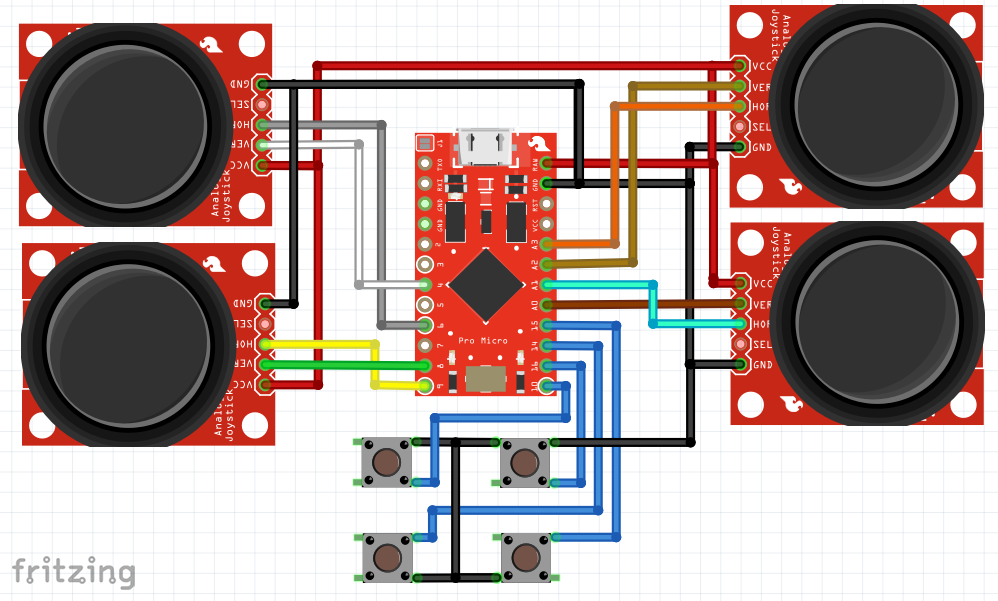
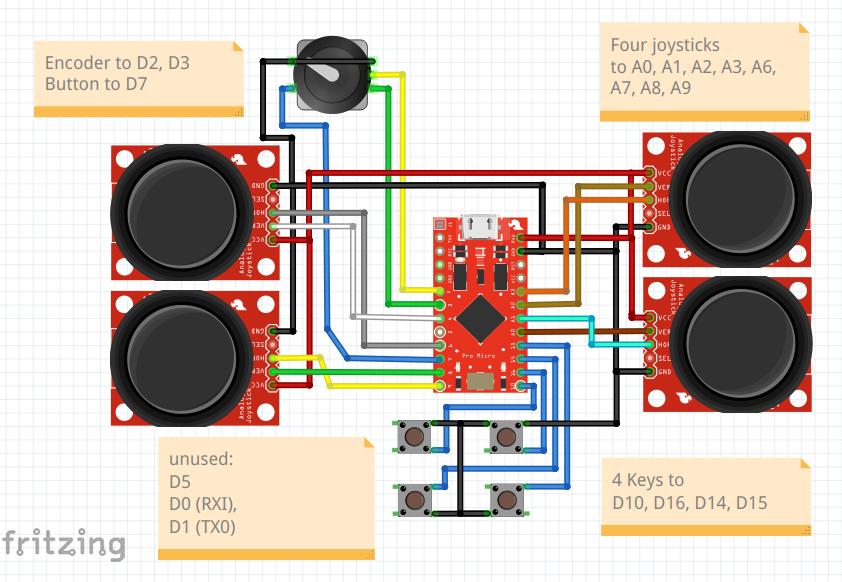
Robust zeroing and dead-zone suggestion (#42)
* New debug=11 to recalibrate (=zero) the joysticks.
* Integrated a dead zone suggestion and warnings for non-idle axis
* Updates to README and added FAQ for #19

diff --git a/spacemouse-keys/config_sample.h b/spacemouse-keys/config_sample.h
@@ -1,12 +1,12 @@
 // The user specific settings, like pin mappings or special configuration variables and sensitivities are stored in config.h.
-// Please adjust your settings and save it as config.h
+// Please adjust your settings and save it as --> config.h <-- !
 
 // Calibration instructions
 // Follow this file from top to bottom to calibrate your space mouse
 
 // Default Assembly when looking from above on top of the space mouse
 //
-//   back
+//   back    resulting axis
 //    C           Y+
 //    |           .
 // B--+--D   X-...Z+...X+
@@ -35,8 +35,9 @@
 
 // Debugging (You can send the number over the serial interface, whenever you whish)
 // -1: Debugging off. Set to this once everything is working.
-// 0: Debugging level doesn't change
+// 0: Nothing...
 // 1: Output raw joystick values. 0-1023 raw ADC 10-bit values
+// 11: Calibrate / Zero the spacemouse and get a dead-zone suggestion (This is also done on every startup in the setup())
 // 2: Output centered joystick values. Values should be approx -500 to +500, jitter around 0 at idle.
 // 20: semi-automatic min-max calibration
 // 3: Output centered joystick values. Filtered for deadzone. Approx -350 to +350, locked to zero at idle, modified with a function.
@@ -46,22 +47,24 @@
 // 7: Report the frequency of the loop() -> how often is the loop() called in one second?
 // 8: Report the bits and bytes send as button codes
 // 9: Report details about the encoder wheel, if ROTARY_AXIS > 0
-#define STARTDEBUG 0
+
+#define STARTDEBUG 0  // Can also be set over the serial interface, while the programm is running!
 
 // Second calibration: Tune Deadzone
 // Deadzone to filter out unintended movements. Increase if the mouse has small movements when it should be idle or the mouse is too senstive to subtle movements.
-// Set debug = 2. Don't touch the mouse but observe the values. They should be nearly to zero. Every value around zero which is noise or should be neglected afterwards is in the following deadzone.
-#define DEADZONE 3  // Recommended to have this as small as possible for V2 to allow smaller knob range of motion.
+// Semi-automatic: Set debug = 11. Don't touch the mouse and observe the automatic output.
+// Manual: Set debug = 2. Don't touch the mouse but observe the values. They should be nearly to zero. Every value around zero which is noise or should be neglected afterwards is in the following deadzone.
+#define DEADZONE 3  // Recommended to have this as small as possible to allow full range of motion.
 
-// Third calibration: getting min and max values
+// Third calibration: Getting MIN and MAX values
 // Can be done manual (debug = 2) or semi-automatic (debug = 20)
 // Semi-automatic (debug=20)
 // 1. Set debug = 20
 // 2. Compile the sketch, upload it and wait for confirmation in the serial console.
 // 3. Move the spacemouse around for 15s to get a min and max value.
 // 4. Verify, that the minimums are around -400 to -520 and the maxVals around +400 to +520.
-// (repeat or check again, if you have small values!)
-// 5. Copy the output from the console into your config.h (below the manual instructions)
+// (repeat or check again, if you have too small values!)
+// 5. Copy the output from the console into your config.h 
 
 // Manual min/max calibration (debug = 2)
 // Recommended calibration procedure for min/max adc levels
@@ -94,22 +97,21 @@
 
 // Fourth calibration: Sensitivity
 // Independent sensitivity multiplier for each axis movement. Use degbug mode 4 or use for example your cad program to verify changes.
-// eg use lower value like 0.5 to make axis more sensitive, use higher value like 5 to make it less sensitive
-// The Values you can change (those Values worked for me, you can or should change them to your preferences):
+// E.g. use lower value like 0.5 to make axis more sensitive, use higher value like 5 to make it less sensitive
 
 // Recommended calibration procedure for sensitivity
-//  1. Make sure modFunc is on level 0!! Change debug to level 4 and upload sketch. Then open Serial Monitor. You will see Values TX, TY, TZ, RX, RY, RZ
+//  1. Make sure modFunc is on level 0, see below. Upload the sketch. Then open serial monitor, type 4 and hit enter. You will see Values TX, TY, TZ, RX, RY, RZ
 //  2. Start moving your spacemouse. You will notice values changing.
-//  3. Starting with TX try increasing this value as much as possible by moving your spacemouse around. If you get around 350 thats great. If not change pos_transX_sensitivy and reupload sketch. Repeat until it is around 350 for maximum motion.
+//  3. Starting with TX try increasing this value as much as possible by moving your spacemouse around. If you get around 350 thats great. If not change TRANSX_SENSITIVITY and reupload sketch. Repeat until it is around 350 for maximum motion.
 //  4. Repeat steps 3 for TY,TZ,RX,RY,RZ
 //  5. Verification: Move the Jockstick in funny ways. All you should get for eather TX,TX,TZ,RX,RY,RZ should be aprox. between -350 to 350.
 //  6. You have finished sensitivity calibration. You can now test your spacemouse with your favorite program (e.g. Cad software, Slicer)
-//  7. Aftermath: You notice the movements are hard to control. Try using Modification Functions (have a look at the beginning of the sketch) [I like level 3 the most. Experiment to find your favorite function]
+//  7. Aftermath: You notice the movements are hard to control. Try using Modification Functions [I like level 3 the most. Experiment to find your favorite function]
 
 #define TRANSX_SENSITIVITY 2
 #define TRANSY_SENSITIVITY 2
 #define POS_TRANSZ_SENSITIVITY 0.5
-#define NEG_TRANSZ_SENSITIVITY 5  //I want low sensitiviy for down, therefore a high value.
+#define NEG_TRANSZ_SENSITIVITY 5  // I want low sensitiviy for down, therefore a high value.
 #define GATE_NEG_TRANSZ 15        // gate value, which negative z movements will be ignored (like an additional deadzone for -z).
 #define GATE_ROTX 15              // Value under which rotX values will be forced to zero
 #define GATE_ROTY 15              // Value under which roty values will be forced to zero
@@ -119,7 +121,7 @@
 #define ROTY_SENSITIVITY 1.5
 #define ROTZ_SENSITIVITY 2
 
-// Modifier Function
+// Fifth calibration: Modifier Function
 // Modify resulting behaviour of spacemouse outputs the suppres small movements around zero and enforce big movements even more.
 // (This function is applied on the resulting velocities and not on the direct input from the joysticks)
 // This should be at level 0 when starting the calibration!
@@ -132,12 +134,13 @@
 #define MODFUNC 0
 
 // ------------------------------------------------------------------------------------
-// Direction
+// Sixth Calibration: Direction
 // Modify the direction of translation/rotation depending on preference.
 // This should be done, when you are done with the pin assignment.
 // The default 0 is here for x, y and z orientation as to the picture in the readem
 // The suggestion in the comments is to accomodate the 3dConnexion Trainer "3Dc"
-// Switch between true/false as desired.
+// Switch between 0 or 1 as desired
+
 #define INVX 0   // pan left/right  // 3Dc: 0
 #define INVY 0   // pan up/down     // 3Dc: 1
 #define INVZ 0   // zoom in/out     // 3Dc: 1
@@ -146,16 +149,14 @@
 #define INVRZ 0  // Rotate around Z axis (twist left/right) // 3Dc: 1
 
 //Switch Zooming with Up/Down Movement
-//DISCLAIMER: This will make your spacemouse work like in the original code from TeachingTech, but if you try the 3DConnexion tutorial in the Spacemouse Home Software you will notice it won't work.
-#define SWITCHYZ 0  //change to true for switching movement
+#define SWITCHYZ 0  // change to 1 to switch Y and Z axis
 
 // ------------------------------------------------------------------------------------
 // Keys Support
 // See below for examples
-// How many keys are there in total?
+// How many keys are there in total? (0=no keys, feature disabled)
 #define NUMKEYS 0
 // Define the pins for the keys on the arduino
-// KEYLIST must be empty "{ }" if NUMKEYS = 0, i.e. no key support
 // The first pins from KEYLIST may be reported via HID
 #define KEYLIST \
   { 15, 14, 16, 10 }
@@ -182,12 +183,13 @@
 #define SM_ROT      26 // Key "Rotate" 
 
 // BUTTONLIST must have the as many elemets as NUMHIDKEYS
-// That means: BUTTONLIST must be empty "{ }" if NUMHIDKEYS = 0
 // The keys from KEYLIST are assigned to buttons here:
 #define BUTTONLIST { SM_FIT, SM_T, SM_R, SM_RCW }
+
 // ------------------------------------------------------------------------------------
 
-// Kill-Key Feature: Are there buttons to set the translation or rotation to zero?
+// Kill-Key Feature
+// Are there buttons to set the translation or rotation to zero?
 // How many kill keys are there? (disabled: 0; enabled: 2)
 #define NUMKILLKEYS 0
 // usually you take the last two buttons from KEYLIST as kill-keys
@@ -205,7 +207,6 @@
  *  NUMKILLKEYS 0
  *  KILLROT and KILLTRANS don't matter... KILLROT 0 and KILLTRANS 0
  */
-
 
 /*  Example for three usual buttons and no kill-keys
  *  There are three keys in total:  NUMKEYS 3

diff --git a/spacemouse-keys/calibration.cpp b/spacemouse-keys/calibration.cpp
@@ -179,7 +179,131 @@ void updateFrequencyReport() {
     Serial.print("Frequency: ");
     Serial.print(iterationsPerSecond);
     Serial.println(" Hz");
-    lastFrequencyUpdate = millis();  // reset timer
-    iterationsPerSecond = 0;         // reset iteration counter
+    lastFrequencyUpdate = millis(); // reset timer
+    iterationsPerSecond = 0;        // reset iteration counter
+  }
+}
+
+// Calibrate (=zero) the space mouse
+// numIterations: How many readings are taken to calculate the mean. Suggestion: 500 iterations, they take approx. 480ms.
+// With debugFlag = true, a suggestion for the dead zone is given on the serial interface to save to the config.h
+// It's blocking other functions in the meantime
+// returns true, if no warnings occured.
+bool busyZeroing(int *centerPoints, uint16_t numIterations, boolean debugFlag)
+{
+  bool noWarningsOccured = true;
+  if (debugFlag == true)
+  {
+    Serial.println(F("Zeroing Joysticks..."));
+  }
+  int act[8];                                  // actual value
+  uint32_t mean[8] = {0, 0, 0, 0, 0, 0, 0, 0}; // Array to count all values during the averaging
+  int minValue[8];                             // Array to store the minimum values
+  int maxValue[8];                             // Array to store the maximum values
+  for (int i = 0; i < 8; i++)
+  {
+    minValue[i] = 1023; // Set the min value to the maximum possible value
+    maxValue[i] = 0;    // Set the max value to the minimum possible value
+  }
+
+  // measure duration
+  unsigned int long start, end;
+  start = millis();
+
+  uint16_t count;
+
+  for (count = 0; count < numIterations; count++)
+  {
+    readAllFromJoystick(act);
+    for (uint8_t i = 0; i < 8; i++)
+    {
+      // Add to mean
+      mean[i] = mean[i] + act[i];
+      // Update the minimum and maximum values for dead zone evaluation
+      if (act[i] < minValue[i])
+      {
+        minValue[i] = act[i];
+      }
+      if (act[i] > maxValue[i])
+      {
+        maxValue[i] = act[i];
+      }
+    }
+  }
+
+  int16_t deadZone[8];
+  int16_t maxDeadZone = 0;
+  // calculating average by dividing the mean by the number of iterations
+  for (uint8_t i = 0; i < 8; i++)
+  {
+    centerPoints[i] = mean[i] / count;
+    deadZone[i] = maxValue[i] - minValue[i];
+    if (deadZone[i] > maxDeadZone)
+    {
+      // get maximum deadzone independet of axis
+      maxDeadZone = deadZone[i];
+    }
+    
+    // a dead zone above the following value will be warned
+    #define DEADZONEWARNING 10
+    // a centerpoint below or above those values will be warned (512 +/- 128)
+    #define CENTERPOINTWARNINGMIN 384
+    #define CENTERPOINTWARNINGMAX 640
+
+    if (deadZone[i] > DEADZONEWARNING || centerPoints[i] < CENTERPOINTWARNINGMIN || centerPoints[i] > CENTERPOINTWARNINGMAX)
+      {
+        noWarningsOccured = false;
+      }
+  }
+
+  // report everything, if with debugFlag
+  if (debugFlag)
+  {
+    Serial.println(F("##  Min- Mean - Max -> Dead Zone"));
+    for (int i = 0; i < 8; i++)
+    {
+      Serial.print(axisNames[i]);
+      Serial.print(" ");
+      Serial.print(minValue[i]);
+      Serial.print(" - ");
+      Serial.print(centerPoints[i]);
+      Serial.print(" - ");
+      Serial.print(maxValue[i]);
+      Serial.print(" -> ");
+      Serial.print(deadZone[i]);
+      Serial.print(" ");
+      if (deadZone[i] > DEADZONEWARNING)
+      {
+        Serial.print(F(" Attention! Moved axis?"));
+      }
+      if (centerPoints[i] < CENTERPOINTWARNINGMIN || centerPoints[i] > CENTERPOINTWARNINGMAX)
+      {
+        Serial.print(F(" Attention! Axis in idle?"));
+      }
+      Serial.println("");
+    }
+    end = millis();
+    Serial.println(F("Using mean as zero position..."));
+    Serial.print(F("Suggestion for config.h: "));
+    Serial.print(F("#define DEADZONE "));
+    Serial.println(maxDeadZone);
+    Serial.print(F("This took "));
+    Serial.print(end - start);
+    Serial.print(F(" ms for "));
+    Serial.print(count);
+    Serial.println(F(" iterations."));
+  }
+  return noWarningsOccured;
+}
+
+// define an array for reading the analog pins of the joysticks
+int pinList[8] = PINLIST;
+
+// Function to read and store analogue voltages for each joystick axis.
+void readAllFromJoystick(int *rawReads)
+{
+  for (int i = 0; i < 8; i++)
+  {
+    rawReads[i] = analogRead(pinList[i]);
   }
 }

diff --git a/spacemouse-keys/calibration.h b/spacemouse-keys/calibration.h
@@ -34,3 +34,9 @@ bool isDebugOutputDue();
 
 // update and report the function to learn at what frequency the loop is running
 void updateFrequencyReport();
+
+// Calibrate (=zero) the space mouse
+bool busyZeroing(int *centerPoints, uint16_t numIterations, boolean debugFlag);
+
+// Function to read and store analogue voltages for each joystick axis.
+void readAllFromJoystick(int *rawReads);

diff --git a/README.md b/README.md
@@ -1,5 +1,5 @@
 # Open Source Spacemouse with Keys
-Repository for the space mouse based on four joysticks with an addition for keys (not jet in the picture)
+Repository for the space mouse based on four joysticks with an addition for keys and an encoder wheel.
 
 ![overview](pictures/overview.jpg)
 
@@ -11,8 +11,8 @@ This repository for the source code is based on the work by [TeachingTech](https
 - [x] Support for "kill-keys", that disable translation or rotation directly in the mouse
 - [x] Support for an encoder wheel to zoom
 
-Wanted, with unclear solution ... ?
-- [ ] Reverse Direction and Speed options in 3dConnexion Software is not working, because our spacemouse is not accepting this settings.
+Wanted features:
+- [ ] Reverse Direction and Speed options in 3dConnexion Software is not working, because our spacemouse is not accepting this settings. 
 
 Purchasing the [electronics](#electronics) and [printing some parts](#printed-parts) is not scope of this repository. We start with the software.
  
@@ -104,6 +104,35 @@ spacemouse.bootloader.file=caterina/Caterina-promicro16.hex
 - Teaching Tech followed the instructions here from [nebhead](https://gist.github.com/nebhead/c92da8f1a8b476f7c36c032a0ac2592a) with two key differences:
 	- Changed the word 'DaemonBite' to 'Spacemouse' in all references.
   	- Changed the VID and PID values as per jfedor's instructions: vid=0x256f, pid=0xc631 (SpaceMouse Pro Wireless (cabled))
+#### "pins_arduino.h" not found
+[Taken from](https://github.com/AndunHH/spacemouse/issues/19#issue-2355907540)
+> Windows 11, 2.3.2 Arduino IDE, AVR 1.8.6
+>
+>I followed every setup step, but was getting complication error "pins_arduino.h" not found.
+>
+>Checked the file - indeed, not existing, even though it is imported in core
+>
+>Its the first time I interact with Arduino and I'm not sure if this was suppose to be auto copied or magic imported, but it didn't
+>
+> Copying the config from variants\leonardo (in my case, I used the board TeachingTech recommended) to version root (...avr\1.8.6) solved it
+
+#### Changes for Arduino 2.3.2
+Check this [issue](https://github.com/AndunHH/spacemouse/issues/19#issuecomment-2184967522).
+With Arduino IDE 2.3.2 and Arduino AVR board package 1.8.6 , a few changes in text pasted to boards.txt were needed
+
+```
+#spacemouse.build.variant=promicro
+spacemouse.build.variant=leonardo 
+
+#spacemouse.bootloader.file=caterina/Caterina-promicro16.hex
+spacemouse.bootloader.file=caterina/Caterina-Leonardo.hex
+``` 
+Also SpaceMouse needs to be added to list of boards supported by Arduino AVR platform in package_index.json, so that you can select it in IDE.
+```
+        {
+          "name": "SpaceMouse"
+        },
+```
 
 ## Cloning the github repo
 Clone the github repo to your computer: Scroll-Up to the green "<> Code" Button and select, if you wish to clone or just download the code.
